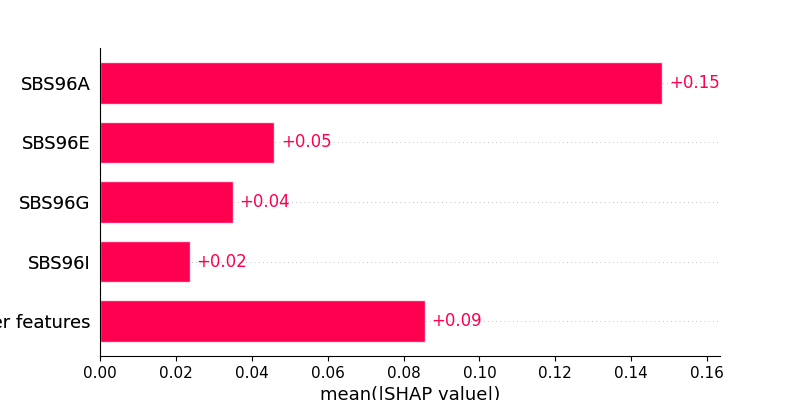
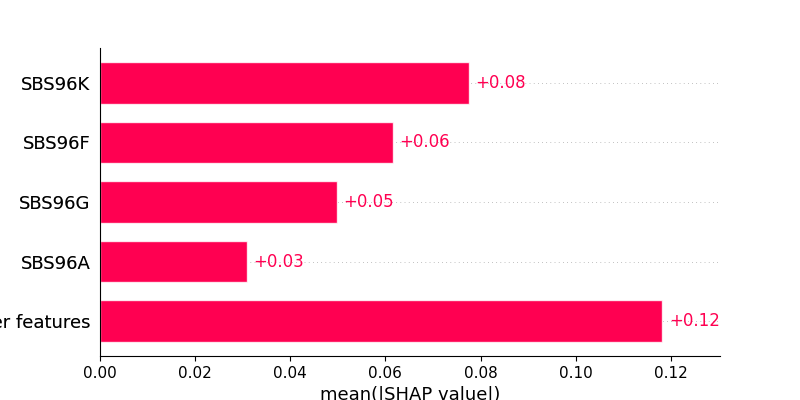
smaller plots, median activity

diff --git a/src/add_data_labels.py b/src/add_data_labels.py
@@ -35,8 +35,24 @@ def add_data_labels(activity_file, output_file, normalized=True):
     activity_data.insert(0, 'Data Label', data_labels)
     activity_data.to_csv(output_file, sep="\t", index=True)
     
+def median_activity_per_cancer_type():
+    activities = pd.read_csv("data/labeled_data_11.txt", delimiter="\t", index_col=0)
+    for cancer_type in activities['Data Label'].unique():
+        cancer_type_data = activities[activities['Data Label'] == cancer_type]
+        median_activity = cancer_type_data.iloc[:, 1:].median()
+        average_activity = cancer_type_data.iloc[:, 1:].mean()
+        #print all results to file
+        with open("results_combined/Median_Activities.txt", 'a') as f:
+            f.write(cancer_type + "\n")
+            f.write("Median Activity\n")
+            f.write(str(median_activity) + "\n\n")
+            f.write("Average Activity\n")
+            f.write(str(average_activity) + "\n\n")
+
+    
 if __name__=="__main__":
-    activity_file = "results_combined/SBS96_11_Signatures/Activities/SBS96_S11_NMF_Activities.txt"
-    output_file = "data/labeled_data_11.txt"
-    add_data_labels(activity_file, output_file)
+    # activity_file = "results_combined/SBS96_11_Signatures/Activities/SBS96_S11_NMF_Activities.txt"
+    # output_file = "data/labeled_data_11.txt"
+    # add_data_labels(activity_file, output_file)
+    median_activity_per_cancer_type()
     

diff --git a/src/classifiers.py b/src/classifiers.py
@@ -107,7 +107,7 @@ def calculate_shap_nn(nn, X_train, X_test):
     return shap_values, explainer
 
 def plot_shap(shap_values, explainer, X, output_folder, model_name):
-    class_names = ["BRCA", "LUNG", "STAD", "SKCM"]
+    class_names = ["BRCA", "LUNG", "SKCM", "STAD"]
     feature_names = ["A", "B", "C", "D", "E", "F", "G", "H", "I", "J", "K"]
     #shap_values = shap_values.transpose(2, 0, 1)
     #shap.summary_plot(shap_values, X, plot_type='bar', class_names=class_names, feature_names=feature_names)
@@ -117,14 +117,14 @@ def plot_shap(shap_values, explainer, X, output_folder, model_name):
     class_names=class_names,
     feature_names=feature_names,
     plot_type="bar",
-    plot_size=[6, 5]
+    plot_size=[5, 5]
 )
     plt.savefig(output_folder + '/' + model_name + '_shap_summary_plot.png')
     plt.clf()
-    plt.figure(figsize=(20, 5))
+    plt.figure(figsize=(18, 3.5))
     for i in range(len(class_names)):
         plt.subplot(1, len(class_names), i + 1)
-        shap.summary_plot(shap_values[:, :, i], X, feature_names=feature_names, plot_size=[20,5], max_display=5)
+        shap.summary_plot(shap_values[:, :, i], X, feature_names=feature_names, plot_size=[18,3.5], max_display=4)
     plt.savefig(output_folder + '/' + model_name + '_shap_summary_plot_dot.png')
     plt.clf()
     
